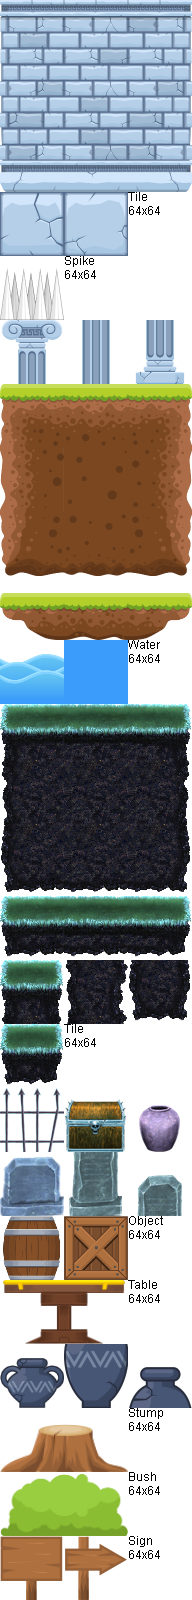
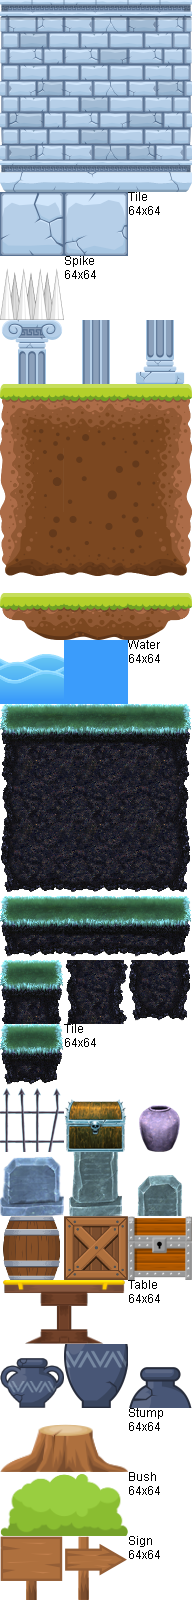
Hero padding. Include enemies spritesheet - but no sprite yet

Changed region(s): [[0.6562, 0.75, 1.0, 0.8125]]

diff --git a/www/js/src/hero1.js b/www/js/src/hero1.js
@@ -187,6 +187,10 @@
       spriteSheet: "hero1",
       width: 128,
       height: 128,
+      paddingLeft: 0,
+      paddingRight: 0,
+      paddingTop: 24,
+      paddingBottom: 4,
       state: "idle-right",
       velocity: 0,
       acceleration: 0,
@@ -353,15 +357,14 @@
             ratio = Math.abs((Math.abs(velocity) > walkVelocity ? velocity : walkVelocity) / runVelocity);
         attrs.yVelocity = Math.round(jumpAnimation.yStartVelocity * (ratio + (1-ratio)/2));
 
-        var heroSmall = cur.mov == "crouch",
-          heroWidth = this.get("width"),
-          tileHeight = this.get("height"),
-          heroHeight = heroSmall ? tileHeight*0.5 : tileHeight*0.8,
-          heroBottomY = Math.round(this.get("y") - 4) + tileHeight,
-          heroTopY = heroBottomY - heroHeight,
-          heroLeftX = this.get("x"),
-          topLeftTile = heroTopY > 0 ? this.world.findAt(heroLeftX + heroWidth*0.4, heroTopY, "tile", this, true) : null,
-          topRightTile = heroTopY > 0 ? this.world.findAt(heroLeftX + heroWidth*0.6, heroTopY, "tile", this, true) : null;
+        var heroWidth = this.get("width"),
+            tileHeight = this.get("height"),
+            heroHeight = tileHeight - this.get("paddingTop") - this.get("paddingBottom"),
+            heroBottomY = Math.round(this.get("y") - 4) + tileHeight - this.get("paddingBottom"),
+            heroTopY = heroBottomY - heroHeight,
+            heroLeftX = this.get("x"),
+            topLeftTile = heroTopY > 0 ? this.world.findAt(heroLeftX + heroWidth*0.4, heroTopY, "tile", this, true) : null,
+            topRightTile = heroTopY > 0 ? this.world.findAt(heroLeftX + heroWidth*0.6, heroTopY, "tile", this, true) : null;
         if (topLeftTile || topRightTile) attrs.yVelocity = -2*60;
 
         // Keep the horizontal velocity
@@ -488,16 +491,16 @@
       }
 
       // Collision detection
-      var heroSmall = cur.mov == "crouch",
-          heroWidth = this.get("width"),
+      var heroWidth = this.get("width"),
           tileHeight = this.get("height"),
-          heroHeight = heroSmall ? tileHeight*0.5 : tileHeight*0.8,
+          paddingBottom = this.get("paddingBottom"),
+          heroHeight = tileHeight - this.get("paddingTop") - paddingBottom,
           heroLeftX = Math.round(x + velocity * (dt/1000)),
           reaction = null;
 
       var heroBottomY, heroTopY, obstacleCheckTopY, obstacleCheckBottomY;
       function updateHeroTopBottom() {
-        heroBottomY = Math.round(y + yVelocity * (dt/1000)) + tileHeight;
+        heroBottomY = Math.round(y + yVelocity * (dt/1000)) + tileHeight - paddingBottom;
         heroTopY = heroBottomY - heroHeight;
         obstacleCheckTopY = heroTopY + heroHeight*0.25;
         obstacleCheckBottomY = heroTopY + heroHeight*0.75;
@@ -526,7 +529,7 @@
 
         function land(bottomY) {
           attrs.yVelocity = yVelocity = 0;
-          attrs.y = y = bottomY - tileHeight;
+          attrs.y = y = bottomY - tileHeight + paddingBottom;
           updateHeroTopBottom();
           attrs.state = nextState;
           if (nex.move == "walk" || nex.move == "run")

diff --git a/www/js/src/main.js b/www/js/src/main.js
@@ -15,7 +15,12 @@ $(window).on("load", function() {
 
   var tileWidth = 64,
       tileHeight = 64,
-      spriteNames = [["hero1"], Backbone.BlueCastleTileNames, Backbone.ForestTileNames, Backbone.GraveyardTileNames];
+      spriteNames = [
+        ["hero1"],
+        Backbone.BlueCastleTileNames,
+        Backbone.ForestTileNames,
+        Backbone.GraveyardTileNames
+      ];
 
   Backbone.Controller = Backbone.Model.extend({
     initialize: function(attributes, options) {
@@ -43,6 +48,15 @@ $(window).on("load", function() {
         tileHeight: tileHeight,
         tileColumns: 4,
         tileRows: 25
+      }, {
+        id: "enemies",
+        img: "#enemies",
+        x: 0,
+        y: 0,
+        tileWidth: 128,
+        tileHeight: 128,
+        tileColumns: 12,
+        tileRows: 10
       }]).attachToSpriteClasses();
 
       // Create the debug panel

diff --git a/www/js/src/tiles.js b/www/js/src/tiles.js
@@ -82,6 +82,7 @@
 
   extendSprite("Tile", "bc-barrel", {collision: true}, {idle: {sequences: [76]}});
   extendSprite("Tile", "bc-crate", {collision: true}, {idle: {sequences: [77]}});
+  extendSprite("Tile", "bc-chest", {collision: true}, {idle: {sequences: [78]}});
 
   extendSprite("Tile", "bc-table1", {collision: true}, {idle: {sequences: [80]}});
   extendSprite("Tile", "bc-table2", {collision: true}, {idle: {sequences: [81]}});

diff --git a/www/index.html b/www/index.html
@@ -48,6 +48,7 @@
     <body>
         <img id="hero1" src="img/hero1.png" style="display:none;" />
         <img id="tiles" src="img/tiles.png" style="display:none;" />
+        <img id="enemies" src="img/enemies.png" style="display:none;" />
         <img id="icons" src="img/icons.png" style="display:none;" />
 
         <canvas id="foreground" width="960" height="700">
